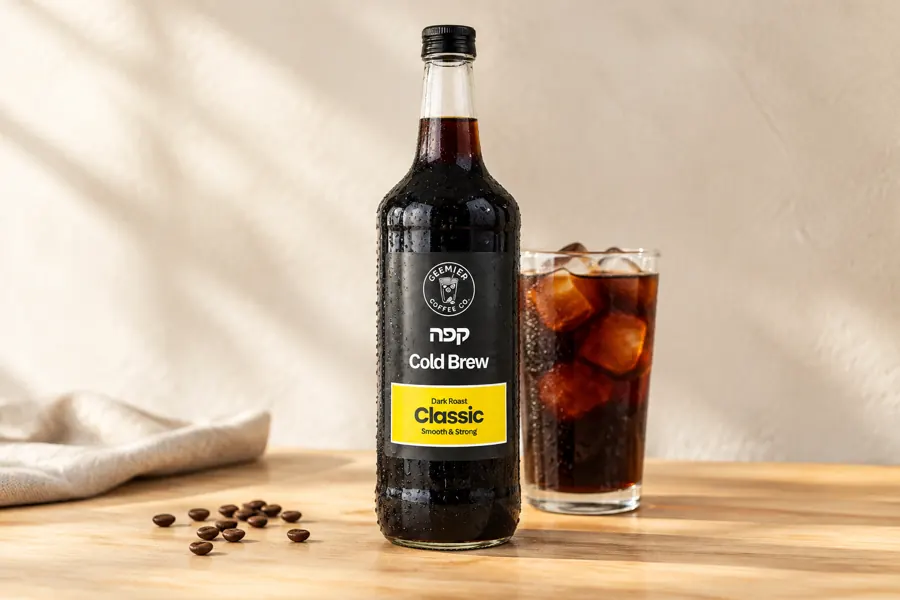
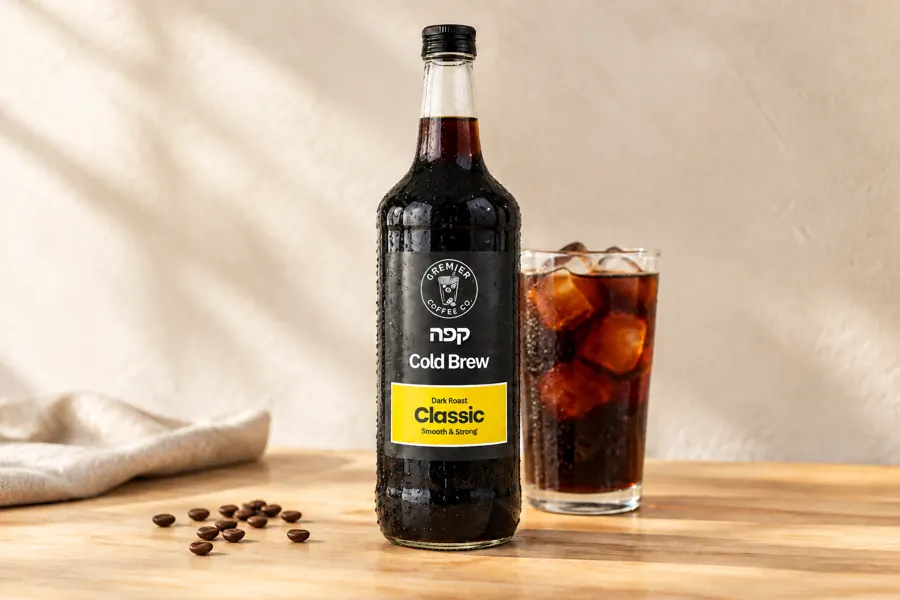
Hero film: new Classic and coffee bar shots; 3:2 frame and gentler zoom so caps and labels stay in view

diff --git a/storefront-hero-stills.js b/storefront-hero-stills.js
@@ -13,25 +13,26 @@
   } catch (_) {}
   if (!LIVE && !preview) return;
 
-  // [file, English caption, Hebrew caption, page, move from → to as [scale, x%, y%]]
-  // Each shot drifts on a diagonal while slowly zooming in, in a different direction from the one before.
+  // [file, English caption, Hebrew caption, page, move from → to as [scale, x%, y%], optional framing (object-position)]
+  // Each shot drifts on a diagonal while slowly zooming in, in a different direction from the one before;
+  // on the tall bottle shots the drift rises toward the cap, so caps and labels stay in the frame.
   // The image can move (scale − 1) / 2 of its size each way before an edge shows; every move stays inside that.
   const SHOTS = [
-    ['01-lineup', 'Five cold brews, one favourite', 'חמישה קולד ברו, אחד אהוב', 'shop', [1.06, 3, 2], [1.16, -5, -3]],
-    ['02-classic', 'Classic Dark Roast · smooth & strong', 'קלאסיק קלייה כהה · חלק וחזק', 'shop', [1.06, -3, 2], [1.16, 4, -3]],
-    ['04-colombia', 'Colombia Light Roast · bright & fruity', 'קולומביה קלייה בהירה · רענן ופירותי', 'shop', [1.06, 3, -2], [1.16, -5, 3]],
-    ['05-sweetened', 'Sweetened Classic · add milk if you like', 'קלאסיק ממותק · עם חלב, אם בא לכם', 'shop', [1.06, -3, -2], [1.16, 5, 3]],
-    ['06-syrups', 'Vanilla Bean & Caramel syrups', 'סירופ וניל ושל קרמל', 'shop', [1.06, -3, 2], [1.16, 5, -3]],
-    ['07-minis', 'Cremier minis · grab and go', 'קרמייר מיני · לוקחים והולכים', 'shop', [1.06, 3, 3], [1.16, -4, -4]],
-    ['08-five-liter', '5 litres for the office or family', '5 ליטר למשרד או למשפחה', 'shop', [1.06, -3, -2], [1.16, 5, 3]],
-    ['09-coffee-bar', 'Coffee bars for your event', 'עמדות קפה לאירוע שלכם', 'coffeebars', [1.06, 3, -2], [1.16, -5, 3]],
+    ['01-lineup', 'Five cold brews, one favourite', 'חמישה קולד ברו, אחד אהוב', 'shop', [1.03, 1.5, -1], [1.1, -4, 3]],
+    ['02-classic', 'Classic Dark Roast · smooth & strong', 'קלאסיק קלייה כהה · חלק וחזק', 'shop', [1.03, -1.5, -1], [1.1, 4, 3]],
+    ['04-colombia', 'Colombia Light Roast · bright & fruity', 'קולומביה קלייה בהירה · רענן ופירותי', 'shop', [1.03, 1.5, -1], [1.1, -4, 3]],
+    ['05-sweetened', 'Sweetened Classic · add milk if you like', 'קלאסיק ממותק · עם חלב, אם בא לכם', 'shop', [1.03, -1.5, -1], [1.1, 4, 3]],
+    ['06-syrups', 'Vanilla Bean & Caramel syrups', 'סירופ וניל ושל קרמל', 'shop', [1.03, 1.5, 1], [1.1, -4, -3]],
+    ['07-minis', 'Cremier minis · grab and go', 'קרמייר מיני · לוקחים והולכים', 'shop', [1.03, -1.5, 1], [1.1, 4, -3]],
+    ['08-five-liter', '5 litres for the office or family', '5 ליטר למשרד או למשפחה', 'shop', [1.03, 1.5, -1], [1.1, -4, 3]],
+    ['09-coffee-bar', 'Coffee bars for your event', 'עמדות קפה לאירוע שלכם', 'coffeebars', [1.03, -1.5, -1], [1.1, 4, 3]],
   ];
   const HOLD = 5600, FADE = 1200;
   const still = matchMedia('(prefers-reduced-motion: reduce)').matches;
 
   const css = document.createElement('style');
   css.textContent = `
-  .hero-film{position:relative;max-width:1000px;margin:4px auto 26px;aspect-ratio:2/1;border-radius:22px;overflow:hidden;background:#ece6dd;cursor:pointer;isolation:isolate}
+  .hero-film{position:relative;max-width:900px;margin:4px auto 26px;aspect-ratio:3/2;border-radius:22px;overflow:hidden;background:#ece6dd;cursor:pointer;isolation:isolate}
   .hero-film-shot{position:absolute;inset:0;opacity:0;transition:opacity ${FADE}ms ease}
   .hero-film-shot.on{opacity:1}
   .hero-film-shot img{position:absolute;inset:0;width:100%;height:100%;object-fit:cover;will-change:transform}
@@ -39,7 +40,7 @@
   .hero-film-dots{position:absolute;inset-inline-end:18px;bottom:20px;z-index:2;display:flex;gap:6px}
   .hero-film-dots button{width:8px;height:8px;padding:0;border:0;border-radius:50%;background:rgba(255,255,255,.6);cursor:pointer;box-shadow:0 0 0 1px rgba(0,0,0,.12)}
   .hero-film-dots button[aria-current="true"]{background:#fff;width:20px;border-radius:4px}
-  @media(max-width:1048px){.hero-film{margin:4px 24px 22px}}@media(max-width:900px){.hero-film{aspect-ratio:16/9}}
+  @media(max-width:948px){.hero-film{margin:4px 24px 22px}}
   @media(max-width:640px){.hero-film{margin:0 16px 18px;aspect-ratio:4/5;border-radius:18px}.hero-film-cap{font-size:.78rem;inset-inline-start:12px;bottom:12px;max-width:calc(100% - 24px)}.hero-film-dots{inset-inline-end:auto;inset-inline-start:50%;transform:translateX(-50%);top:12px;bottom:auto}}`;
   document.head.appendChild(css);
 
@@ -48,7 +49,7 @@
     if (!hero || document.querySelector('.hero-film')) return;
     const film = document.createElement('div');
     film.className = 'hero-film'; film.setAttribute('role', 'region'); film.setAttribute('aria-roledescription', 'carousel');
-    film.innerHTML = SHOTS.map(([f], i) => `<div class="hero-film-shot${i ? '' : ' on'}"><img alt="" decoding="async" ${i ? 'loading="lazy"' : 'fetchpriority="high"'} sizes="(max-width:900px) 100vw, 1000px" srcset="/hero/${f}-900.webp 900w, /hero/${f}.webp 1536w" src="/hero/${f}.webp"></div>`).join('')
+    film.innerHTML = SHOTS.map(([f, , , , , , focus], i) => `<div class="hero-film-shot${i ? '' : ' on'}"><img alt="" decoding="async"${focus ? ` style="object-position:${focus}"` : ''} ${i ? 'loading="lazy"' : 'fetchpriority="high"'} sizes="(max-width:948px) 100vw, 900px" srcset="/hero/${f}-900.webp 900w, /hero/${f}.webp 1536w" src="/hero/${f}.webp"></div>`).join('')
       + `<div class="hero-film-cap" aria-live="polite"></div><div class="hero-film-dots">${SHOTS.map((_, i) => `<button type="button" aria-label="${i + 1}"></button>`).join('')}</div>`;
     hero.insertAdjacentElement('afterend', film);
     const shots = [...film.querySelectorAll('.hero-film-shot')], cap = film.querySelector('.hero-film-cap'), dots = [...film.querySelectorAll('.hero-film-dots button')];

diff --git a/index.html b/index.html
@@ -5340,7 +5340,7 @@ async function sendChatMessageText(text) {
 <script src="/storefront-packs.js?v=20261102-6"></script>
 <script src="/storefront-birthday.js?v=20261103-1"></script>
 <script src="/storefront-subscriptions.js?v=20261103-1"></script>
-<script src="/storefront-hero-stills.js?v=20261103-4"></script>
+<script src="/storefront-hero-stills.js?v=20261103-5"></script>
 <script src="/coffee-bar-order.js?v=20261030-1"></script>
 <script src="/storefront-bar-layout.js?v=20261030-1"></script>
 <script src="/storefront-planner.js?v=20261101-4"></script>
